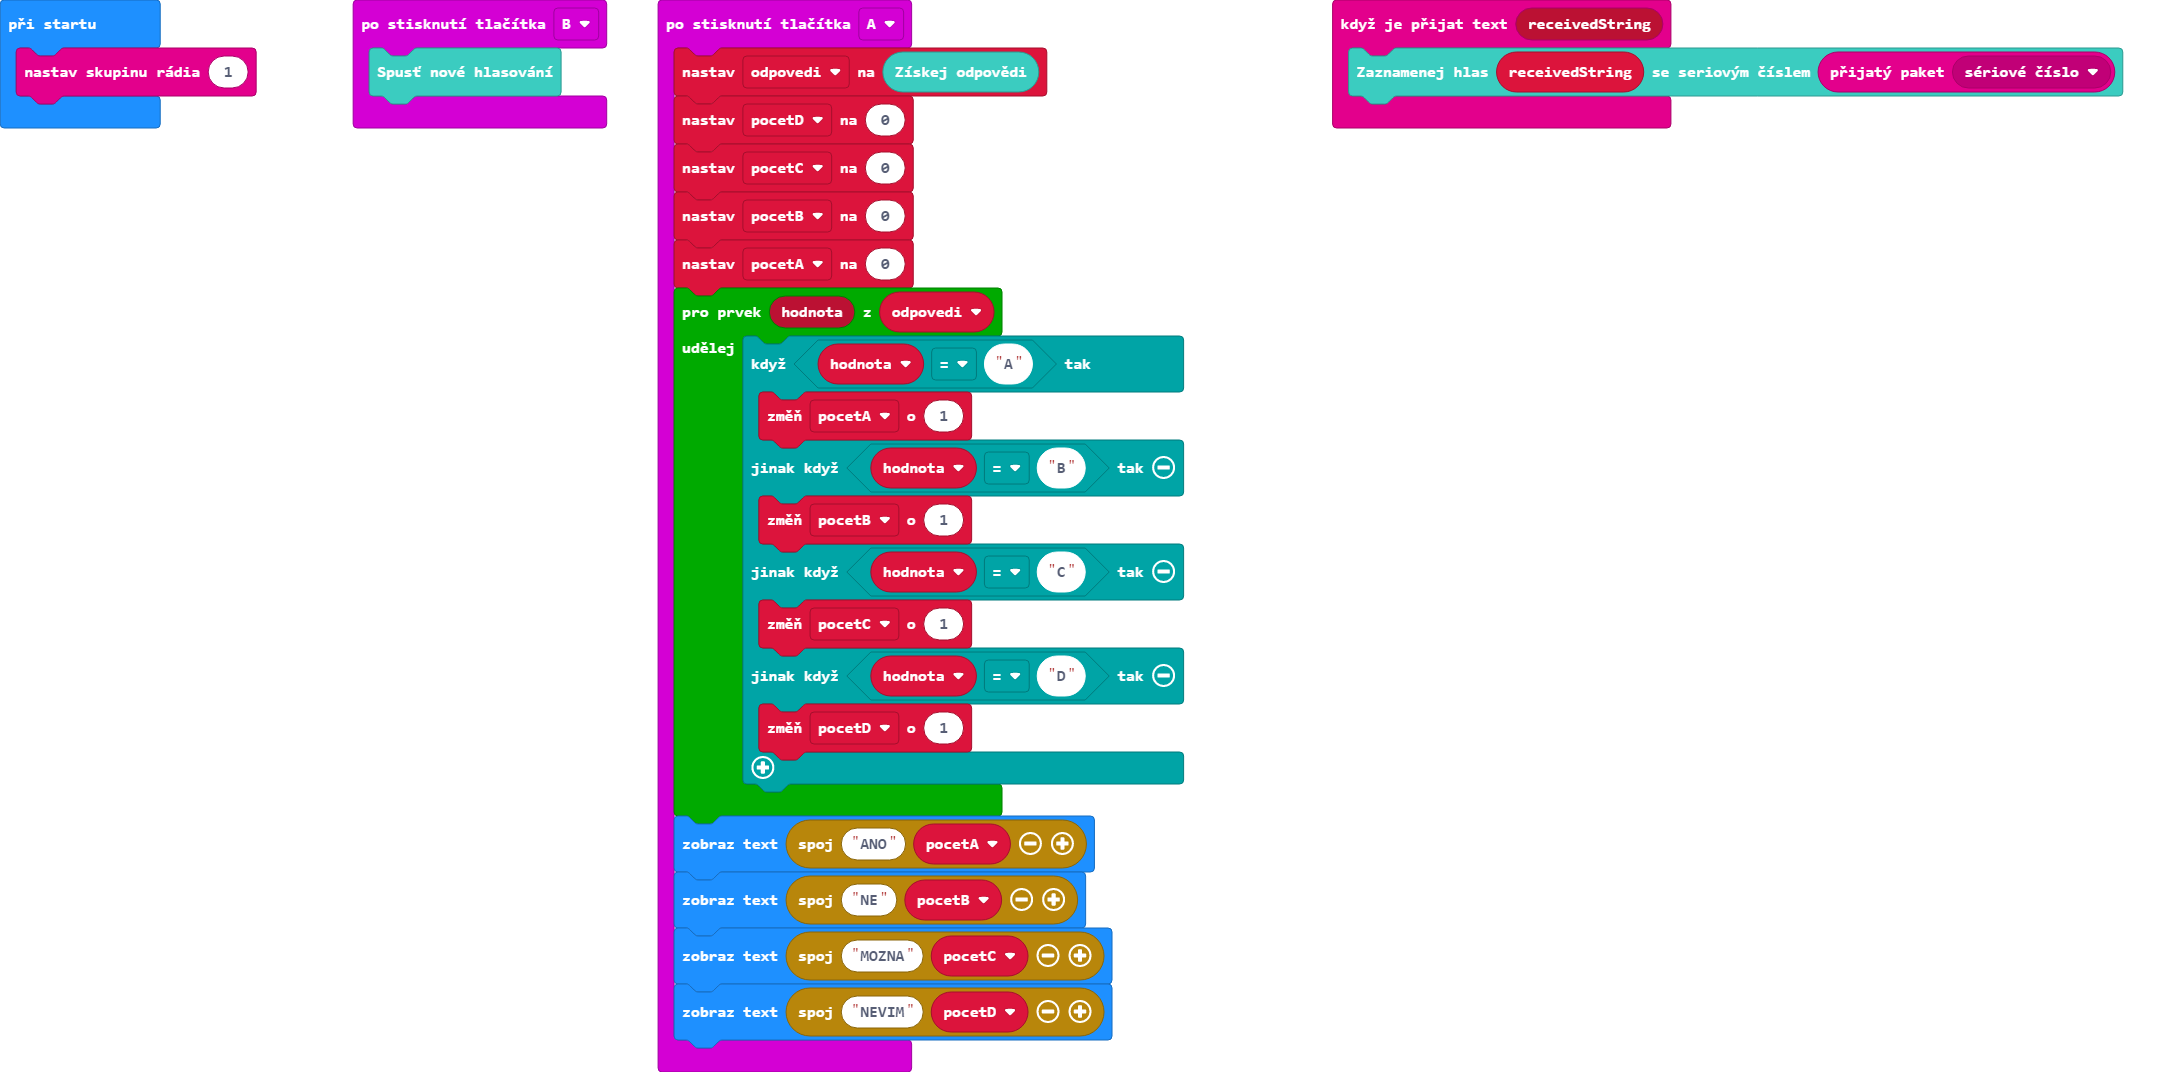
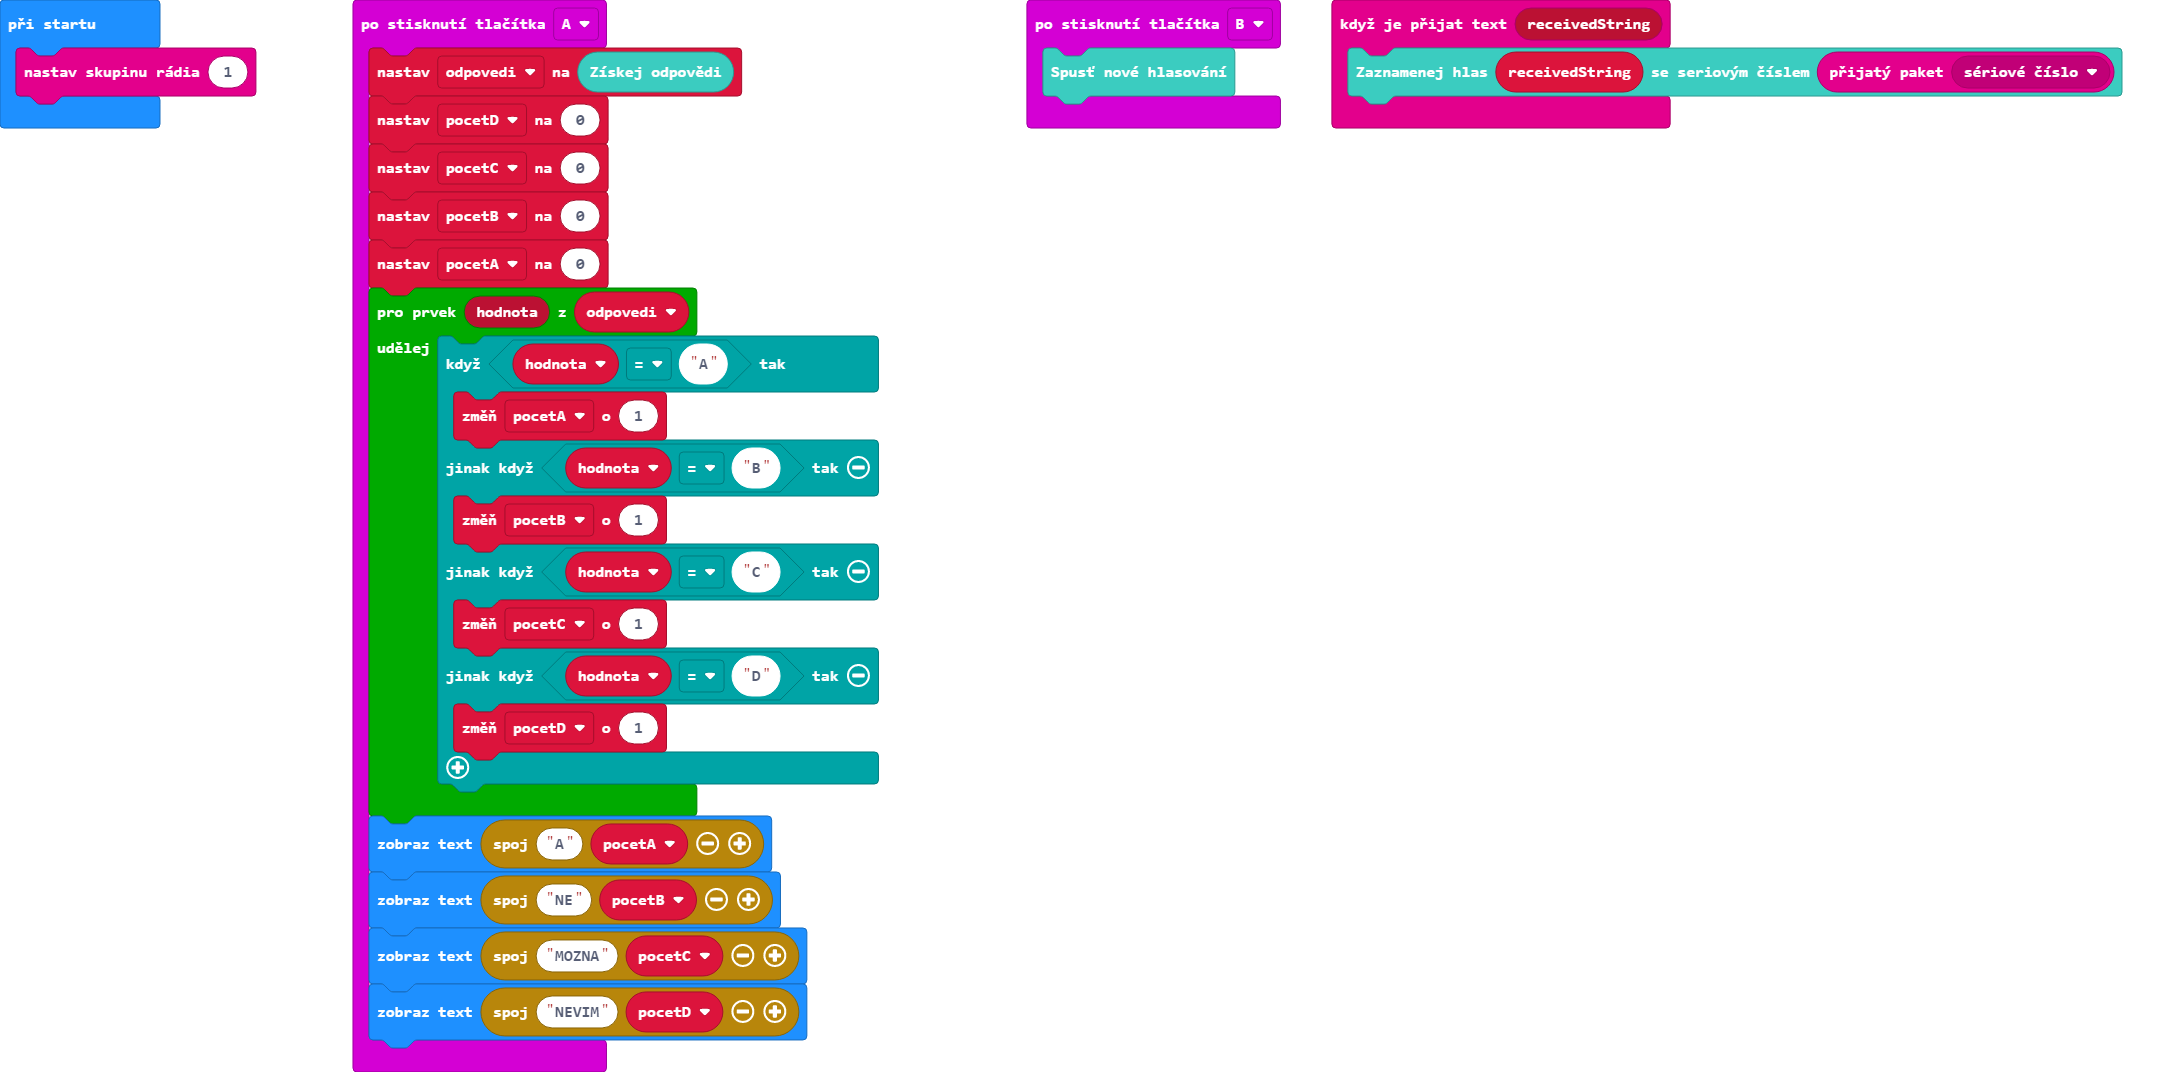
Aktualizovat main.blocks, main.ts

Changed region(s): [[0.1541, 0.0, 0.6164, 1.0]]

diff --git a/main.ts b/main.ts
@@ -15,10 +15,10 @@ input.onButtonPressed(Button.A, function () {
             pocetD += 1
         }
     }
-    basic.showString("ANO" + pocetA)
-    basic.showString("NE" + pocetB)
-    basic.showString("MOZNA" + pocetC)
-    basic.showString("NEVIM" + pocetD)
+    basic.showString("A" + pocetA)
+    basic.showString("B" + pocetB)
+    basic.showString("C" + pocetC)
+    basic.showString("D" + pocetD)
 })
 radio.onReceivedString(function (receivedString) {
     server.addVote(receivedString, radio.receivedPacket(RadioPacketProperty.SerialNumber))
